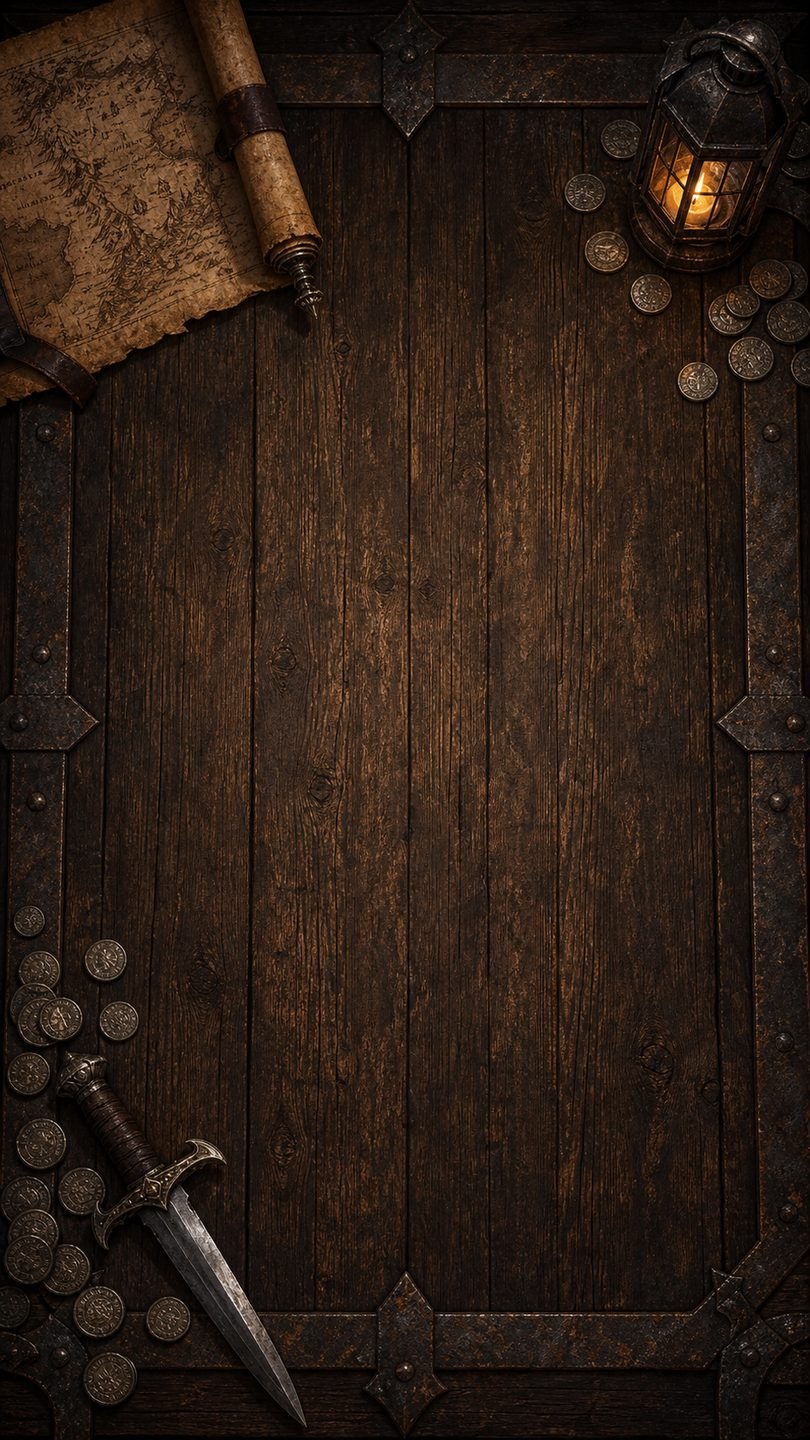
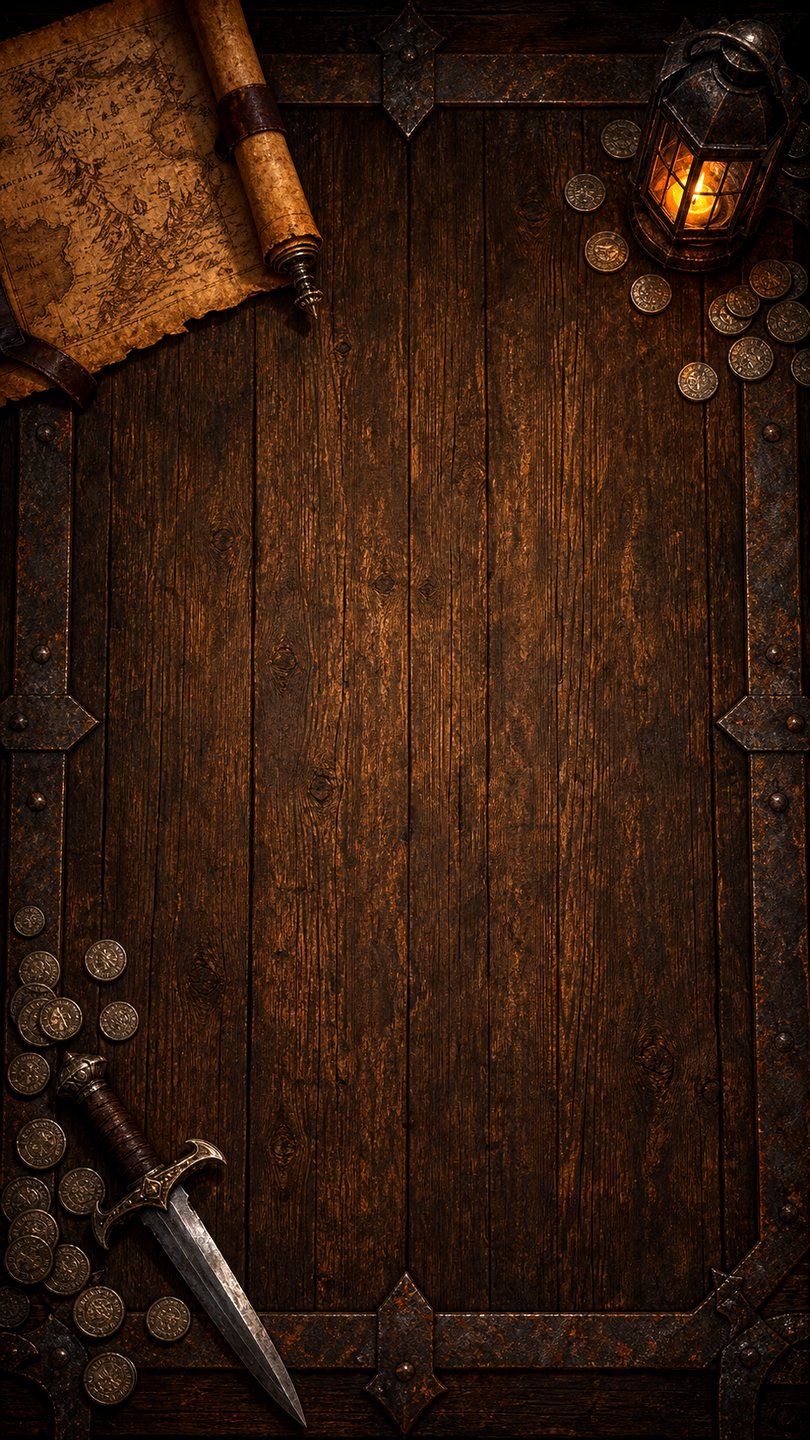
Make battle tables richer and remove dashed slot grid.

diff --git a/src/App.css b/src/App.css
@@ -2297,10 +2297,10 @@ button {
   background-color: #1a120c;
   background-image:
     radial-gradient(
-      ellipse at 50% 45%,
-      rgba(12, 8, 5, 0.18) 0%,
-      rgba(8, 5, 3, 0.55) 62%,
-      rgba(5, 3, 2, 0.78) 100%
+      ellipse at 50% 42%,
+      rgba(8, 5, 3, 0) 0%,
+      rgba(8, 5, 3, 0.12) 55%,
+      rgba(5, 3, 2, 0.42) 100%
     ),
     var(--battle-table, url("/battle-table.jpg"));
   /* cover — стол на весь экран; центр = игровая плита */
@@ -2640,8 +2640,8 @@ button {
   min-height: 0;
   padding: 0.3rem 0.5rem 0.2rem;
   border-radius: 12px;
-  background: rgba(28, 18, 10, 0.32);
-  border: 1px solid rgba(212, 163, 115, 0.18);
+  background: transparent;
+  border: none;
   overflow: auto;
 }
 
@@ -2753,7 +2753,7 @@ button {
 
 .your-lane {
   padding-top: 0.25rem;
-  border-top: 1px dashed rgba(212, 163, 115, 0.28);
+  border-top: none;
 }
 
 .battle-hint-stack {
@@ -3117,6 +3117,11 @@ html.is-hand-dragging .grave-row {
   font-size: 1.1rem;
   box-sizing: border-box;
   margin: 0;
+  /* без пунктирной сетки слотов — стол чистый */
+  border: none;
+  background: transparent;
+  color: transparent;
+  box-shadow: inset 0 0 0 1px rgba(255, 255, 255, 0.04);
 }
 
 .battle .board-card-wrap {
@@ -3560,7 +3565,7 @@ html.is-hand-dragging .grave-row {
     max-height: none;
     width: 100%;
     border-left: none;
-    border-top: 1px dashed rgba(212, 163, 115, 0.28);
+    border-top: none;
     padding-left: 0;
     padding-top: 0.2rem;
     justify-content: center;
@@ -5365,7 +5370,7 @@ html.is-hand-dragging .grave-row {
   height: var(--board-card-h);
   max-height: var(--board-card-h);
   overflow: hidden;
-  border-left: 1px dashed rgba(212, 163, 115, 0.28);
+  border-left: none;
   padding-left: 0.35rem;
 }
 

diff --git a/src/game/battleTables.ts b/src/game/battleTables.ts
@@ -21,7 +21,7 @@ const SCHOOL_TABLE: Record<string, string> = {
 };
 
 /** Версия артов — бамп при замене файлов. */
-export const BATTLE_TABLE_VER = 1;
+export const BATTLE_TABLE_VER = 2;
 
 export function battleTableUrl(path: string): string {
   return `${path}?v=${BATTLE_TABLE_VER}`;
